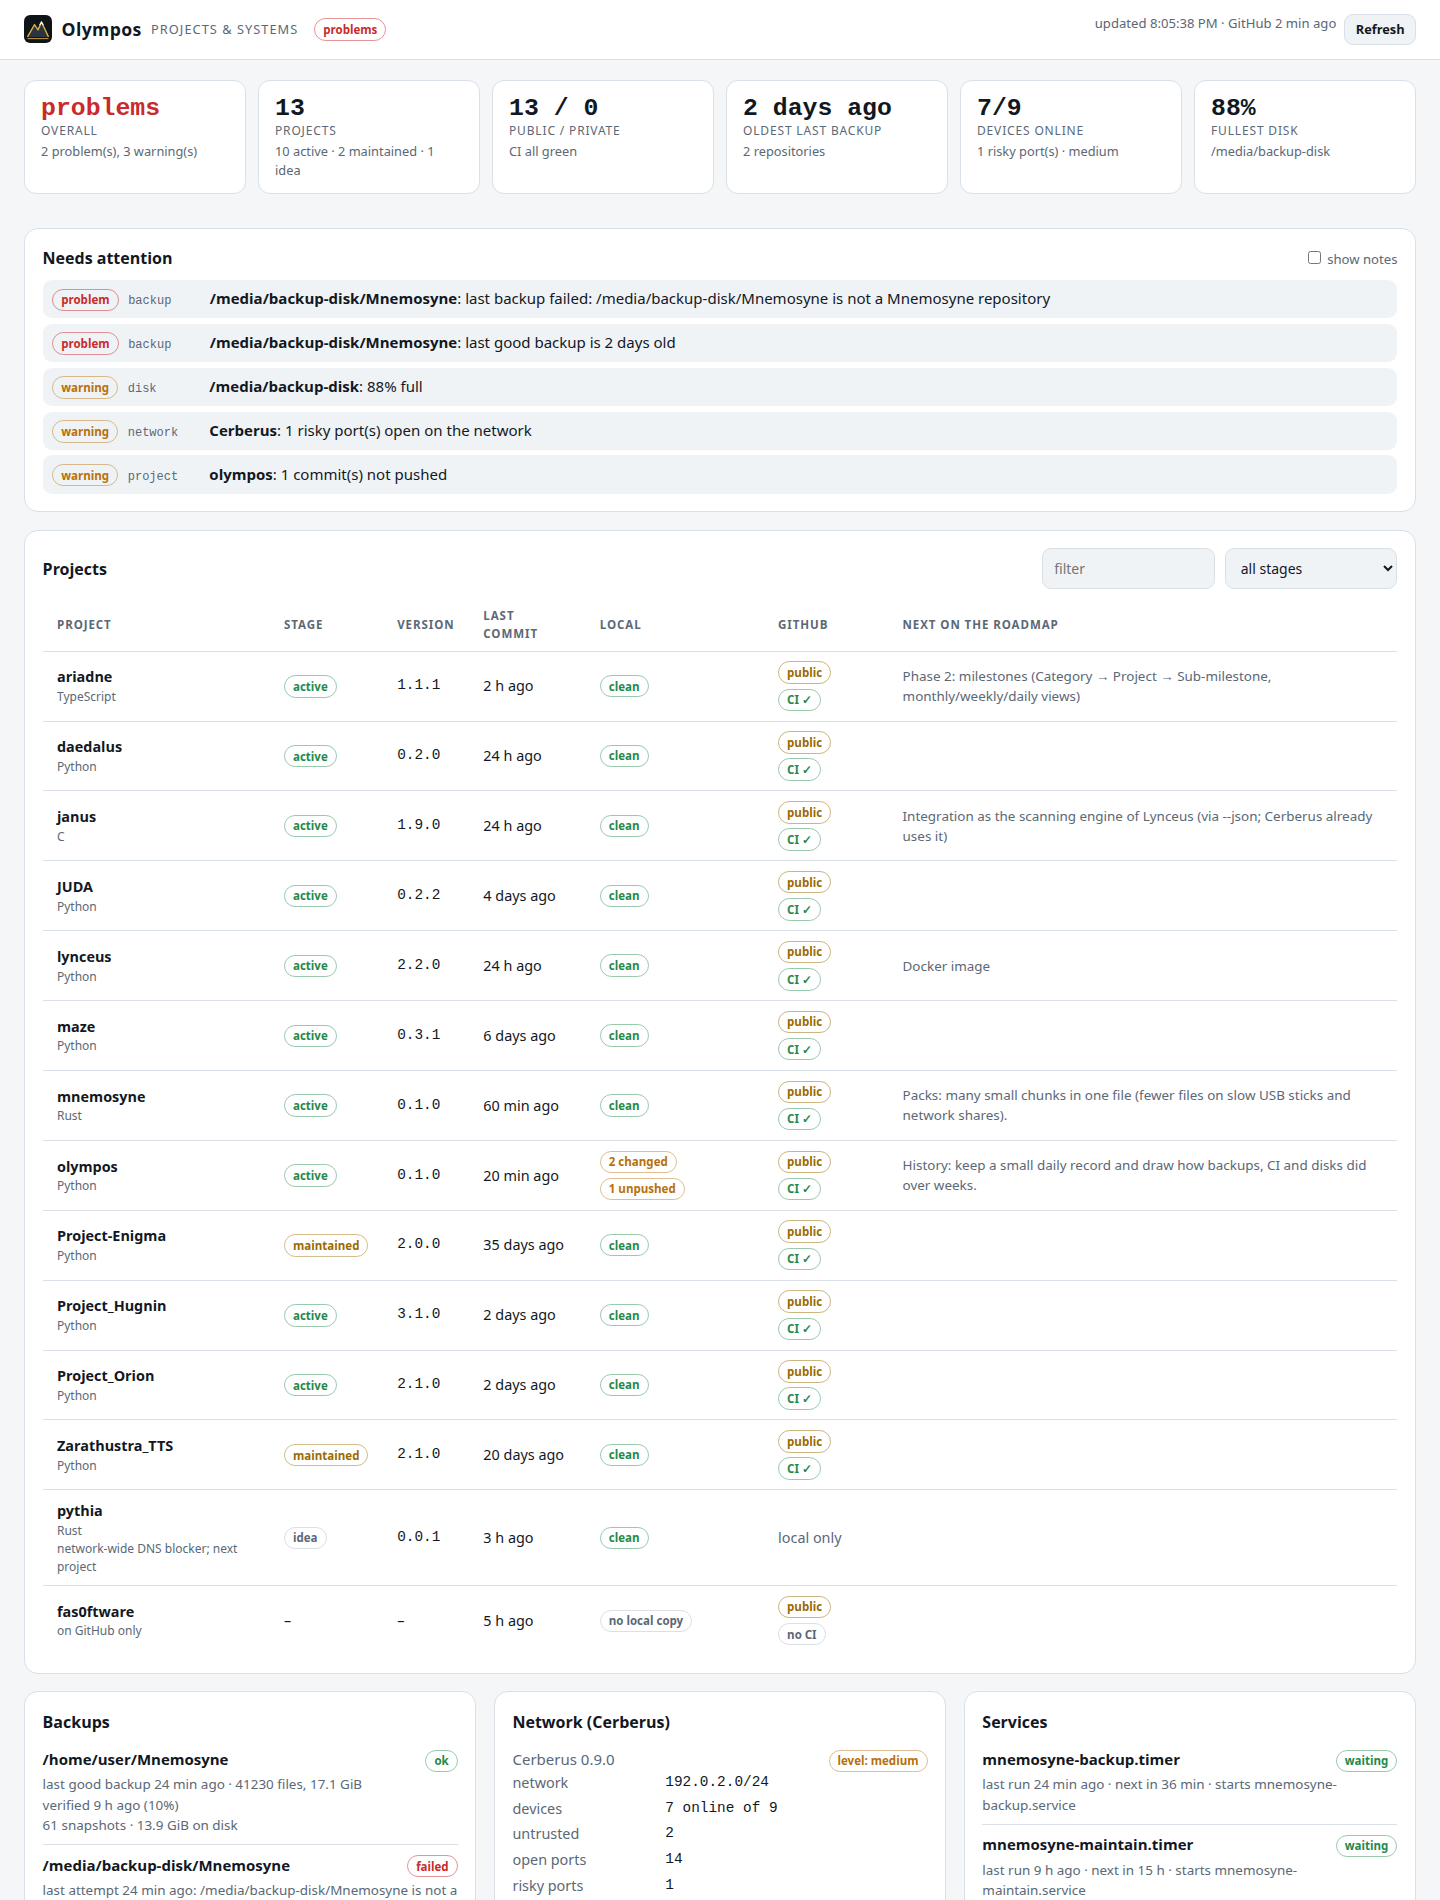
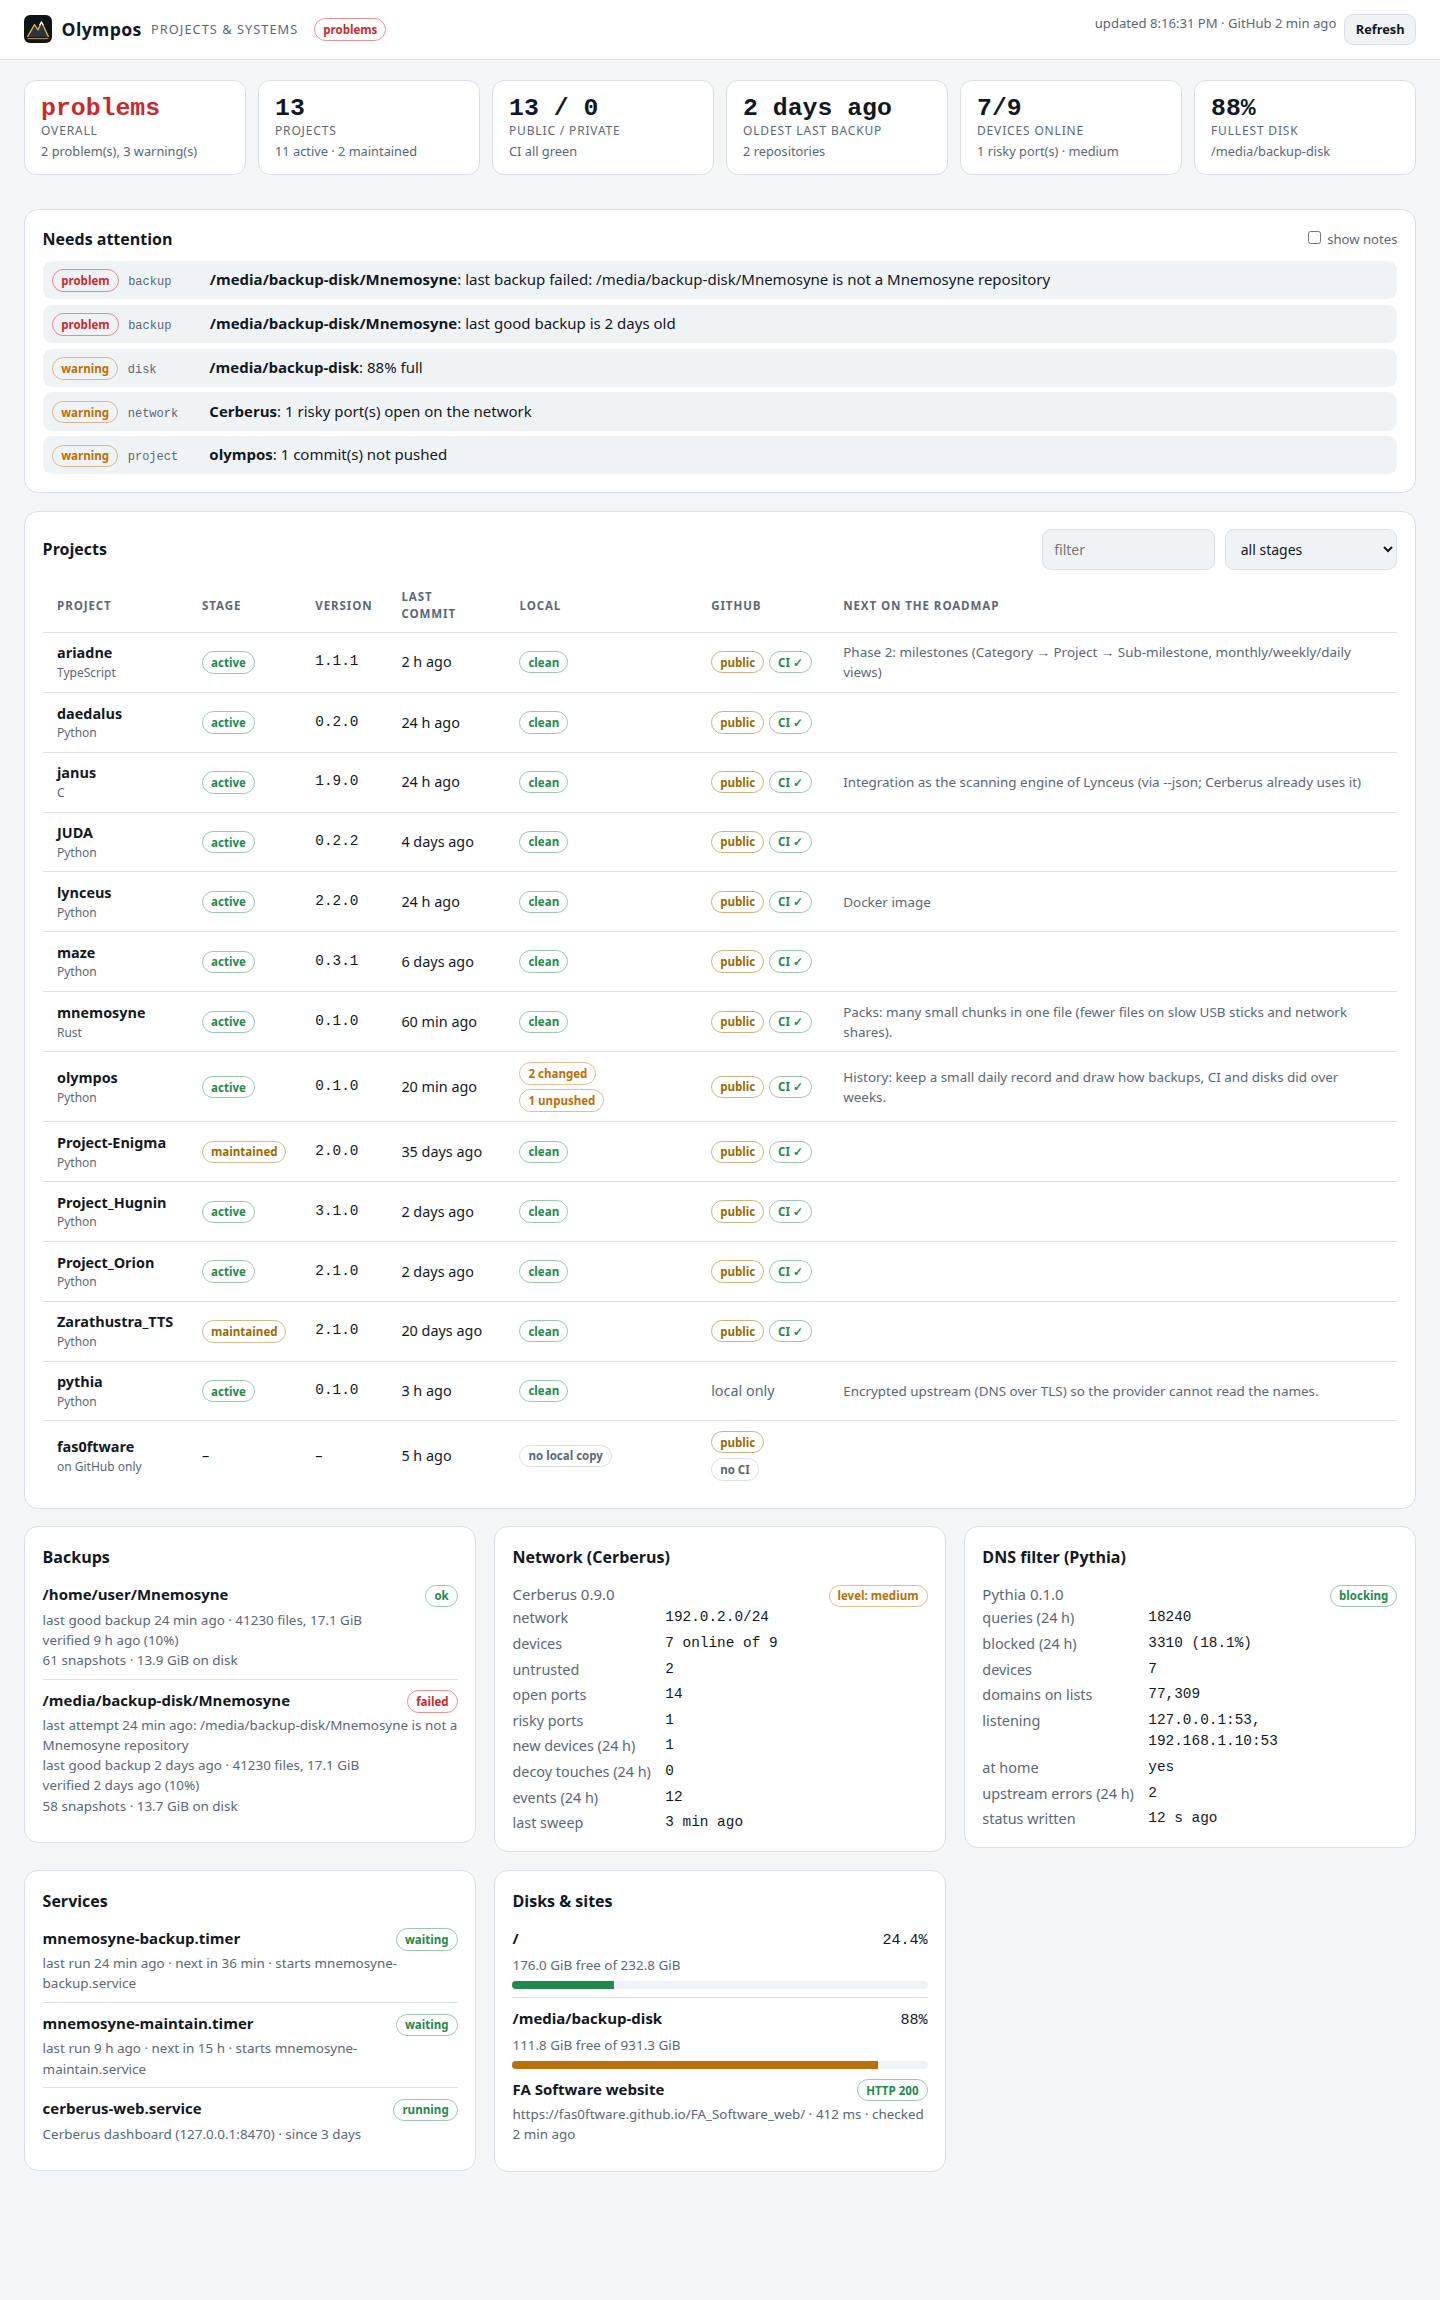
Watch Pythia: blocking state, 24 h counts, upstream health
A [pythia] section points at Pythia's status file; Olympos reports it as
stopped when the file is older than 3 minutes, warns when blocking is
paused, the lists are empty or an upstream keeps failing, and shows a
panel with the counts. Demo data and screenshots include it.

diff --git a/olympos/static/app.js b/olympos/static/app.js
@@ -157,6 +157,25 @@ function renderCerberus(s) {
     el("dl", { class: "kv" }, rows.flatMap(([k, v]) => [el("dt", {}, k), el("dd", {}, String(v ?? "–"))])));
 }
 
+function renderPythia(s) {
+  $("#pythia-panel").hidden = !s.pythia_configured;
+  if (!s.pythia_configured) return;
+  const p = s.pythia;
+  if (!p) {
+    $("#pythia").replaceChildren(el("p", { class: "muted" }, "Not running yet: no status file."));
+    return;
+  }
+  const stale = p.age_s > 180;
+  const state = stale ? badge("stopped", "bad") : p.blocking ? badge("blocking", "good") : badge("paused", "warn");
+  const rows = [["queries (24 h)", p.queries_24h], ["blocked (24 h)", `${p.blocked_24h} (${p.blocked_percent_24h}%)`],
+    ["devices", p.clients], ["domains on lists", (p.domains_on_lists || 0).toLocaleString()],
+    ["listening", (p.listening || []).join(", ")], ["at home", p.at_home ? "yes" : "no (this machine only)"],
+    ["upstream errors (24 h)", p.errors_24h], ["status written", `${p.age_s} s ago`]];
+  $("#pythia").replaceChildren(
+    el("div", { class: "item__head" }, el("span", { class: "muted" }, `Pythia ${p.version}`), state),
+    el("dl", { class: "kv" }, rows.flatMap(([k, v]) => [el("dt", {}, k), el("dd", {}, String(v ?? "–"))])));
+}
+
 function renderUnits(s) {
   if (!s.units.length) {
     $("#units").replaceChildren(el("p", { class: "muted" }, "No units configured."));
@@ -208,6 +227,7 @@ function render(s) {
   renderProjects(s);
   renderBackups(s);
   renderCerberus(s);
+  renderPythia(s);
   renderUnits(s);
   renderDisksSites(s);
 }

diff --git a/olympos/static/index.html b/olympos/static/index.html
@@ -57,6 +57,7 @@
     <section class="grid">
       <div class="panel"><h2 class="panel__title">Backups</h2><div id="backups"></div></div>
       <div class="panel"><h2 class="panel__title">Network (Cerberus)</h2><div id="cerberus"></div></div>
+      <div class="panel" id="pythia-panel" hidden><h2 class="panel__title">DNS filter (Pythia)</h2><div id="pythia"></div></div>
       <div class="panel"><h2 class="panel__title">Services</h2><div id="units"></div></div>
       <div class="panel"><h2 class="panel__title">Disks &amp; sites</h2><div id="disks"></div><div id="sites"></div></div>
     </section>

diff --git a/olympos/demo.py b/olympos/demo.py
@@ -51,8 +51,8 @@ def snapshot(now: datetime | None = None) -> dict:
         _project(now, "Project_Hugnin", "Python", "3.1.0", "active", {"days": 2}),
         _project(now, "Project_Orion", "Python", "2.1.0", "active", {"days": 2}),
         _project(now, "Zarathustra_TTS", "Python", "2.1.0", "maintained", {"days": 20}),
-        _project(now, "pythia", "Rust", "0.0.1", "idea", {"hours": 3}, remote="", upstream=False,
-                 stage_source="config", note="network-wide DNS blocker; next project"),
+        _project(now, "pythia", "Python", "0.1.0", "active", {"hours": 3}, remote="", upstream=False,
+                 next_step="Encrypted upstream (DNS over TLS) so the provider cannot read the names."),
     ]
     repos = [_repo(now, p["name"]) for p in projects if p["remote"]] + [_repo(now, "fas0ftware", ci="")]
     units = [
@@ -90,7 +90,13 @@ def snapshot(now: datetime | None = None) -> dict:
               "free": 120_000_000_000, "percent": 88.0}]
     sites = [{"name": "FA Software website", "url": "https://fas0ftware.github.io/FA_Software_web/", "status": 200, "ms": 412, "error": "",
               "checked": _iso(now, minutes=2)}]
+    pythia = {"version": "0.1.0", "listening": ["127.0.0.1:53", "192.168.1.10:53"], "at_home": True, "blocking": True,
+              "paused_until": "", "domains_on_lists": 77309, "queries_24h": 18240, "blocked_24h": 3310,
+              "blocked_percent_24h": 18.1, "clients": 7, "errors_24h": 2,
+              "upstreams": [{"server": "1.1.1.1:53", "failures_in_a_row": 0}], "lists_updated": _iso(now, hours=6),
+              "age_s": 12}
     local = {"projects": projects, "units": units, "backups": backups, "cerberus": cerberus, "cerberus_error": None,
+             "pythia": pythia, "pythia_configured": True,
              "disks": disks, "errors": []}
     remote = {"repos": repos, "sites": sites, "errors": [], "at": _iso(now, minutes=2)}
     return build(s, local, remote, now)

diff --git a/olympos/state.py b/olympos/state.py
@@ -84,7 +84,14 @@ class State:
                 cerberus = systems.cerberus(self.s.cerberus_url, **kw)
             except (OSError, ValueError) as exc:
                 cerberus_error = str(getattr(exc, "reason", exc))[:200]
-        return {"projects": items, "units": units, "backups": backups, "cerberus": cerberus,
+        pythia = None
+        if self.s.pythia_status:
+            try:
+                pythia = systems.pythia(self.s.pythia_status)
+            except RuntimeError as exc:
+                errors.append(f"Pythia: {exc}")
+        return {"projects": items, "units": units, "backups": backups, "cerberus": cerberus, "pythia": pythia,
+                "pythia_configured": bool(self.s.pythia_status),
                 "cerberus_error": cerberus_error, "disks": [d.to_dict() for d in systems.disks(self.s.disks)],
                 "errors": errors}
 
@@ -117,6 +124,7 @@ def build(s: Settings, local: dict, remote: dict, now: datetime | None = None) -
         + health.units(local["units"])
         + health.backups(local["backups"], s.backup_max_age_hours, s.check_max_age_days, now, expects_backups)
         + health.cerberus(local["cerberus"], local["cerberus_error"])
+        + health.pythia(local.get("pythia"), local.get("pythia_configured", False))
         + health.disks(local["disks"], s.disk_warn_percent)
         + health.sites(remote["sites"])
         + [health.Finding("warn", "olympos", "collector", e) for e in local["errors"] + remote["errors"]]
@@ -147,6 +155,8 @@ def build(s: Settings, local: dict, remote: dict, now: datetime | None = None) -
         "backups": local["backups"],
         "cerberus": local["cerberus"],
         "cerberus_error": local["cerberus_error"],
+        "pythia": local.get("pythia"),
+        "pythia_configured": local.get("pythia_configured", False),
         "disks": local["disks"],
         "sites": remote["sites"],
     }

diff --git a/tests/test_olympos.py b/tests/test_olympos.py
@@ -214,7 +214,7 @@ def test_demo_snapshot_is_consistent():
     texts = {(f["subject"], f["level"]) for f in s["findings"]}
     assert ("olympos", "warn") in texts and ("/media/backup-disk/Mnemosyne", "bad") in texts
     pythia = next(p for p in s["projects"] if p["name"] == "pythia")
-    assert pythia["stage"] == "idea" and pythia["github"] is None
+    assert pythia["github"] is None and s["pythia"]["blocking"] is True
     json.dumps(s)
 
 
@@ -276,3 +276,20 @@ def test_web_serves_and_guards(server):
     assert request(server, "/api/refresh", "POST", origin, b"{}")[0] == 200
     assert request(server, "/api/refresh", "POST", {**origin, "Origin": "http://evil.example"}, b"{}")[0] == 403
     assert request(server, "/api/refresh", "POST", {**origin, "Content-Type": "text/plain"}, b"{}")[0] == 415
+
+
+def test_pythia_status_and_rules(tmp_path):
+    assert health.pythia(None, False) == []
+    assert health.pythia(None, True)[0].level == "warn"
+    f = tmp_path / "status.json"
+    f.write_text(json.dumps({"version": "0.1.0", "blocking": False, "domains_on_lists": 50, "at_home": False,
+                             "upstreams": [{"server": "1.1.1.1:53", "failures_in_a_row": 5}], "secret": "x"}))
+    st = systems.pythia(f)
+    assert st["age_s"] < 5 and "secret" not in st
+    texts = {(x.level, x.text) for x in health.pythia(st, True)}
+    assert ("warn", "blocking is paused") in texts and ("warn", "block lists are empty (update failed?)") in texts
+    assert ("warn", "upstream 1.1.1.1:53 is failing") in texts
+    assert ("bad", "stopped: last status 10 min ago") in {(x.level, x.text) for x in health.pythia({**st, "age_s": 600}, True)}
+    assert systems.pythia(tmp_path / "missing.json") is None
+    assert config.parse({"pythia": {}}).pythia_status is None
+    assert config.parse({"pythia": {"status_file": "/x/s.json"}}).pythia_status == Path("/x/s.json")

diff --git a/olympos/health.py b/olympos/health.py
@@ -136,6 +136,26 @@ def cerberus(summary: dict | None, error: str | None) -> list[Finding]:
     return out
 
 
+def pythia(status: dict | None, configured: bool) -> list[Finding]:
+    if not configured:
+        return []
+    if status is None:
+        return [Finding("warn", "dns", "Pythia", "not running yet (no status file)")]
+    if status.get("age_s", 0) > 180:
+        return [Finding("bad", "dns", "Pythia", f"stopped: last status {human_age(status['age_s'] / 3600)} ago")]
+    out = []
+    if not status.get("blocking"):
+        out.append(Finding("warn", "dns", "Pythia", "blocking is paused"))
+    if (status.get("domains_on_lists") or 0) < 1000:
+        out.append(Finding("warn", "dns", "Pythia", "block lists are empty (update failed?)"))
+    for u in status.get("upstreams") or []:
+        if u.get("failures_in_a_row", 0) >= 3:
+            out.append(Finding("warn", "dns", "Pythia", f"upstream {u.get('server')} is failing"))
+    if status.get("at_home") is False:
+        out.append(Finding("info", "dns", "Pythia", "away from home: serving this machine only"))
+    return out
+
+
 def disks(items: list[dict], warn_percent: int) -> list[Finding]:
     out = []
     for d in items:

diff --git a/olympos/systems.py b/olympos/systems.py
@@ -158,6 +158,24 @@ def cerberus(base_url: str, get=_get_json) -> dict:
     return {k: s.get(k) for k in keep}
 
 
+# --- Pythia --------------------------------------------------------------------------------
+
+def pythia(status_file: Path) -> dict | None:
+    """Pythia's status file plus its age in seconds; None when it does not exist yet."""
+    try:
+        data = json.loads(status_file.read_text())
+        age = time.time() - status_file.stat().st_mtime
+    except FileNotFoundError:
+        return None
+    except (OSError, ValueError) as exc:
+        raise RuntimeError(f"{status_file}: {exc}") from None
+    keep = ("version", "listening", "at_home", "blocking", "paused_until", "domains_on_lists", "queries_24h",
+            "blocked_24h", "blocked_percent_24h", "clients", "errors_24h", "upstreams", "lists_updated")
+    out = {k: data.get(k) for k in keep}
+    out["age_s"] = int(age)
+    return out
+
+
 # --- disks ---------------------------------------------------------------------------------
 
 @dataclass

diff --git a/olympos/config.py b/olympos/config.py
@@ -35,6 +35,7 @@ class Settings:
     backup_max_age_hours: float = 3.0
     check_max_age_days: float = 3.0
     cerberus_url: str = ""
+    pythia_status: Path | None = None   # Pythia's status file; None = not watched
     disks: list[Path] = field(default_factory=list)
     disk_warn_percent: int = 85
     sites: list[Site] = field(default_factory=list)
@@ -86,6 +87,9 @@ def parse(raw: dict) -> Settings:
     if s.cerberus_url and not s.cerberus_url.startswith(("http://127.0.0.1:", "http://localhost:")):
         # It is read without a token, which Cerberus only allows on the machine itself.
         raise ConfigError("cerberus.url must be a local address (http://127.0.0.1:PORT)")
+    py = raw.get("pythia", {})
+    if py:
+        s.pythia_status = Path(py.get("status_file", "~/.local/state/pythia/status.json")).expanduser()
     d = raw.get("disks", {})
     s.disks = [Path(p).expanduser() for p in _list(d, "paths")]
     s.disk_warn_percent = int(d.get("warn_percent", s.disk_warn_percent))

diff --git a/README.md b/README.md
@@ -46,6 +46,7 @@ versions and roadmaps, on a made-up machine (paths, times, backups and network a
 | **Backups** | [Mnemosyne](https://github.com/fas0ftware/mnemosyne)'s status file | last attempt, last *good* backup, last verification, snapshots, size |
 | **Services** | `systemctl --user show` | for a timer also the result of the job it last started (a timer can be "active" while every backup fails) |
 | **Network** | a local [Cerberus](https://github.com/fas0ftware) dashboard (`/api/summary`) | devices online, risky ports, decoy touches, alert level |
+| **DNS filter** | [Pythia](https://github.com/fas0ftware/pythia)'s status file | blocking or paused, queries and blocks in 24 h, upstream health; "stopped" when the file is more than 3 minutes old |
 | **Disks** | `statvfs` | free space, or "not mounted" for an unplugged backup disk |
 | **Websites** | an HTTP `HEAD` | status code and response time |
 
@@ -123,7 +124,7 @@ note = "replaced by my-new-tool"
 |---|---|
 | **problem** | CI failing; a backup failed, is older than `max_age_hours` or never succeeded; a verification found damage; a service failed or is not installed; the last job a timer started failed; a disk is not mounted or 95 % full; a website is down; decoy touches or high alerts in Cerberus |
 | **warning** | unpushed commits; a timer that is not running; data not verified for `check_max_age_days`; a disk over `warn_percent`; risky ports on the network; Cerberus not reachable; a git or GitHub error |
-| **note** (hidden unless *show notes*) | uncommitted files, a feature branch, open pull requests, commits to pull, a project with no GitHub repository yet, new devices on the network |
+| **note** (hidden unless *show notes*) | uncommitted files, a feature branch, open pull requests, commits to pull, a project with no GitHub repository yet, new devices on the network, Pythia away from home |
 
 ## Security and privacy
 
@@ -177,7 +178,6 @@ olympos/
 
 - History: keep a small daily record and draw how backups, CI and disks did over weeks.
 - Desktop notification when the overall level gets worse.
-- Pythia (a network-wide DNS blocker, next project) as another source.
 - Tests and coverage per project, read from the CI artifacts.
 
 ## License
